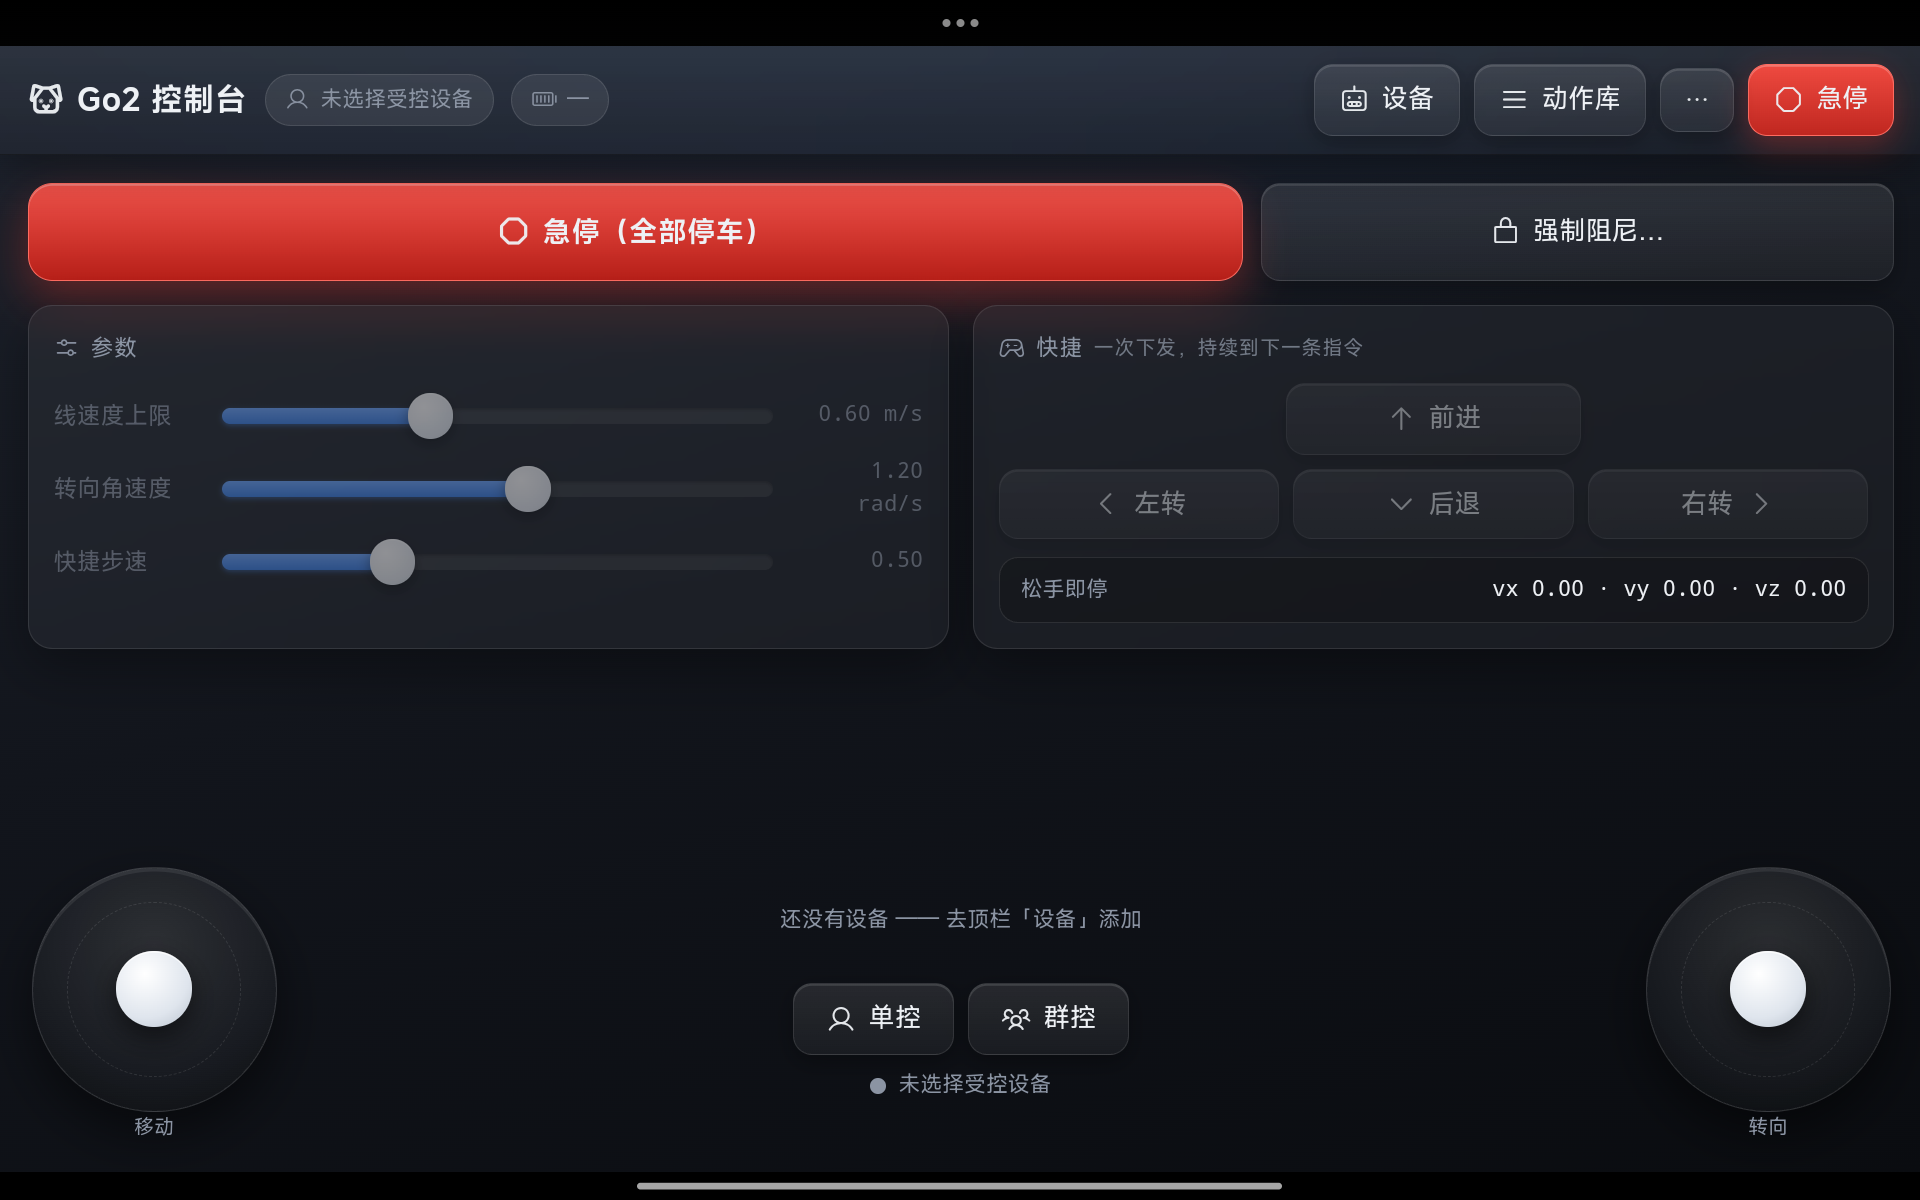
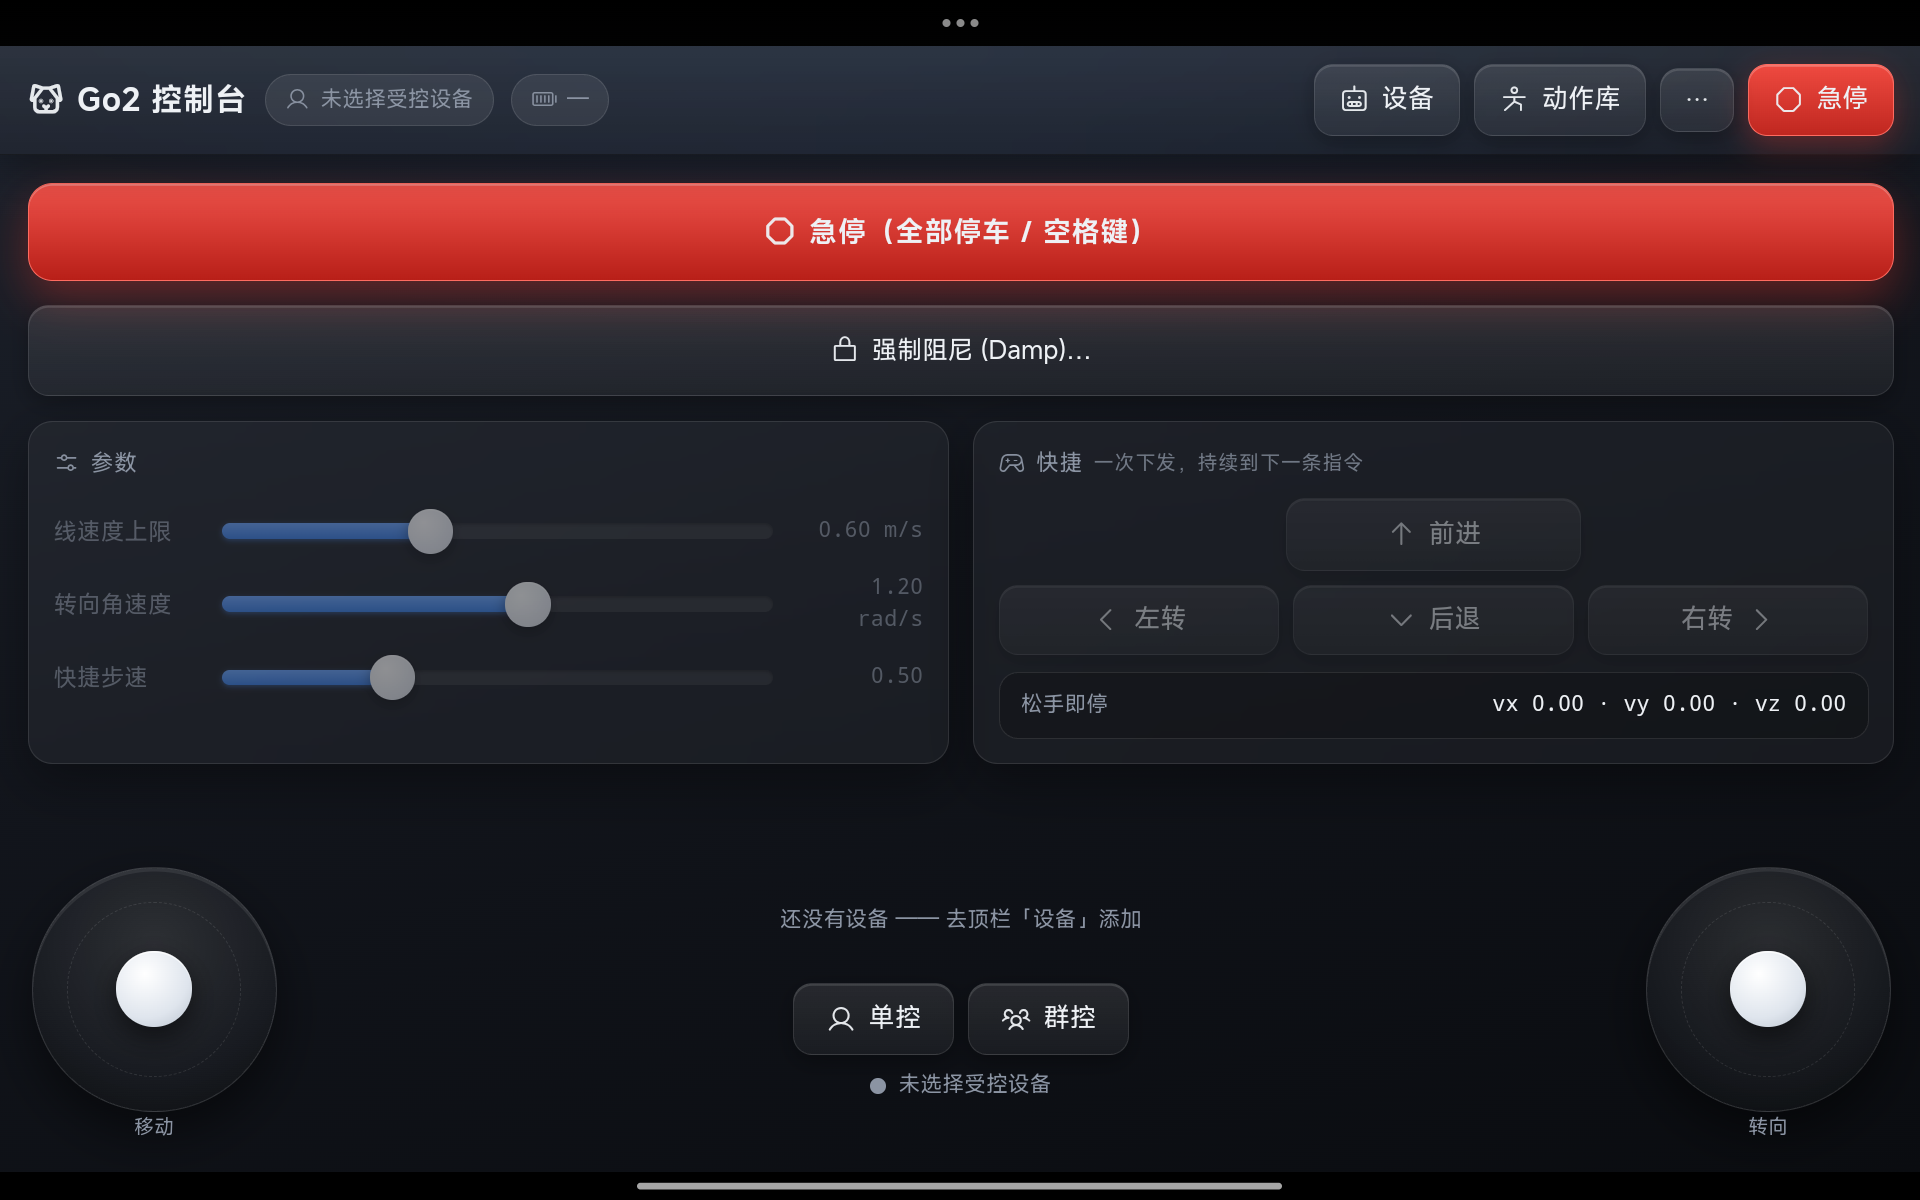
网页遥控页布局对齐 ImGui 端
一、急停恢复全宽一行（文案对齐：急停（全部停车 / 空格键）），强制阻尼恢复全宽一行（强制阻尼 (Damp)…），确认态文案对齐（确认：立即阻尼（狗会趴下）+ 取消）

二、参数滑条加「重置」按钮（对齐 ImGui paramRowF：偏离默认值才显示，点了回默认并下发）

三、顶栏页面切换图标对齐 ImGui（动作库目标页用 TaiChi 图标）

四、README 演示截图重拍（docs/img/web_remote.png）

🤖 Generated with [CodeBuddy](https://codebuddy.ai)

diff --git a/client/apps/android/app/src/main/assets/web/components/remote.js b/client/apps/android/app/src/main/assets/web/components/remote.js
@@ -29,15 +29,17 @@ export default {
   },
   template: `
   <section class="page">
-    <!-- 安全行：急停（大头）+ 强制阻尼（小头，两步确认）—— 同一行省高度，急停依然最显眼 -->
-    <div class="safe-row">
-      <button class="estop-big" :class="{armed: store.st.estop}" @click="estop()">
-        <span class="ic">{{ ICON.estop }}</span>急停（全部停车）
-      </button>
-      <button v-if="!store.dampArmed" class="damp" @click="store.dampArmed = true">
-        <span class="ic">{{ ICON.lock }}</span>强制阻尼…
-      </button>
-      <button v-else class="damp-go" @click="damp()">确认阻尼？</button>
+    <!-- 急停：永远全宽、永远可见（安全关键，断线也要能按）；阻尼单独一行（与 ImGui 端同构） -->
+    <button class="estop-big" :class="{armed: store.st.estop}" @click="estop()">
+      <span class="ic">{{ ICON.estop }}</span>急停（全部停车 / 空格键）
+    </button>
+
+    <div v-if="!store.dampArmed" class="damp" @click="store.dampArmed = true">
+      <span class="ic">{{ ICON.lock }}</span>强制阻尼 (Damp)…
+    </div>
+    <div v-else class="damp-confirm">
+      <button class="damp-go" @click="damp()">确认：立即阻尼（狗会趴下）</button>
+      <button class="ghost" @click="store.dampArmed = false">取消</button>
     </div>
 
     <div v-if="store.st.estop" class="estop-box">
@@ -54,13 +56,13 @@ export default {
       <div class="card pad">
         <p class="title"><span class="ic">{{ ICON.sliders }}</span>参数</p>
         <IosSlider label="线速度上限" :value="param('maxLinSpeed')" :min="0.05" :max="1.5"
-                   :step="0.01" unit=" m/s" :disabled="!canMove"
+                   :step="0.01" unit=" m/s" :def="0.60" :disabled="!canMove"
                    @update="v => onSlide('maxLinSpeed', v)" @commit="v => onCommit('maxLinSpeed', v)" />
         <IosSlider label="转向角速度" :value="param('yawRate')" :min="0.2" :max="2.0"
-                   :step="0.01" unit=" rad/s" :disabled="!canMove"
+                   :step="0.01" unit=" rad/s" :def="1.20" :disabled="!canMove"
                    @update="v => onSlide('yawRate', v)" @commit="v => onCommit('yawRate', v)" />
         <IosSlider label="快捷步速" :value="param('speedScale')" :min="0.05" :max="1.5"
-                   :step="0.01" unit="" :disabled="!canMove"
+                   :step="0.01" unit="" :def="0.50" :disabled="!canMove"
                    @update="v => onSlide('speedScale', v)" @commit="v => onCommit('speedScale', v)" />
       </div>
 

diff --git a/client/assets/web/components/remote.js b/client/assets/web/components/remote.js
@@ -29,15 +29,17 @@ export default {
   },
   template: `
   <section class="page">
-    <!-- 安全行：急停（大头）+ 强制阻尼（小头，两步确认）—— 同一行省高度，急停依然最显眼 -->
-    <div class="safe-row">
-      <button class="estop-big" :class="{armed: store.st.estop}" @click="estop()">
-        <span class="ic">{{ ICON.estop }}</span>急停（全部停车）
-      </button>
-      <button v-if="!store.dampArmed" class="damp" @click="store.dampArmed = true">
-        <span class="ic">{{ ICON.lock }}</span>强制阻尼…
-      </button>
-      <button v-else class="damp-go" @click="damp()">确认阻尼？</button>
+    <!-- 急停：永远全宽、永远可见（安全关键，断线也要能按）；阻尼单独一行（与 ImGui 端同构） -->
+    <button class="estop-big" :class="{armed: store.st.estop}" @click="estop()">
+      <span class="ic">{{ ICON.estop }}</span>急停（全部停车 / 空格键）
+    </button>
+
+    <div v-if="!store.dampArmed" class="damp" @click="store.dampArmed = true">
+      <span class="ic">{{ ICON.lock }}</span>强制阻尼 (Damp)…
+    </div>
+    <div v-else class="damp-confirm">
+      <button class="damp-go" @click="damp()">确认：立即阻尼（狗会趴下）</button>
+      <button class="ghost" @click="store.dampArmed = false">取消</button>
     </div>
 
     <div v-if="store.st.estop" class="estop-box">
@@ -54,13 +56,13 @@ export default {
       <div class="card pad">
         <p class="title"><span class="ic">{{ ICON.sliders }}</span>参数</p>
         <IosSlider label="线速度上限" :value="param('maxLinSpeed')" :min="0.05" :max="1.5"
-                   :step="0.01" unit=" m/s" :disabled="!canMove"
+                   :step="0.01" unit=" m/s" :def="0.60" :disabled="!canMove"
                    @update="v => onSlide('maxLinSpeed', v)" @commit="v => onCommit('maxLinSpeed', v)" />
         <IosSlider label="转向角速度" :value="param('yawRate')" :min="0.2" :max="2.0"
-                   :step="0.01" unit=" rad/s" :disabled="!canMove"
+                   :step="0.01" unit=" rad/s" :def="1.20" :disabled="!canMove"
                    @update="v => onSlide('yawRate', v)" @commit="v => onCommit('yawRate', v)" />
         <IosSlider label="快捷步速" :value="param('speedScale')" :min="0.05" :max="1.5"
-                   :step="0.01" unit="" :disabled="!canMove"
+                   :step="0.01" unit="" :def="0.50" :disabled="!canMove"
                    @update="v => onSlide('speedScale', v)" @commit="v => onCommit('speedScale', v)" />
       </div>
 

diff --git a/client/apps/android/app/src/main/assets/web/style.css b/client/apps/android/app/src/main/assets/web/style.css
@@ -130,10 +130,6 @@ button.icon-btn { padding: 9px 12px; position: relative; }
 .empty { color: var(--dim); font-size: 13px; padding: 10px 2px; }
 
 /* ---------------- 遥控页 ---------------- */
-/* 安全行：急停占大头，强制阻尼占小头（同一行省高度，急停依然最显眼） */
-.safe-row { display: flex; gap: 10px; align-items: stretch; }
-.safe-row .estop-big { flex: 2; }
-.safe-row .damp, .safe-row .damp-go { flex: 1; }
 .estop-big {
   width: 100%; height: 56px; font-size: 16px; font-weight: 650; letter-spacing: .5px;
   border-radius: 14px;
@@ -154,10 +150,19 @@ button.icon-btn { padding: 9px 12px; position: relative; }
 .estop-title { font-weight: 650; color: #ff9a92; margin-bottom: 6px; }
 .estop-tip { font-size: 12.5px; color: var(--dim); margin-bottom: 10px; }
 .unestop { width: 100%; height: 46px; }
-.damp { width: 100%; }
+/* 强制阻尼：全宽一行（div 伪装成按钮，样式与 button 一致） */
+.damp {
+  display: flex; align-items: center; justify-content: center; gap: 7px;
+  width: 100%; height: 52px; font-size: 14.5px; cursor: pointer; color: var(--text);
+  border-radius: 12px; border: 1px solid var(--line);
+  background: linear-gradient(180deg, rgba(255, 255, 255, .10), rgba(255, 255, 255, .05));
+  box-shadow: 0 1px 0 rgba(255, 255, 255, .12) inset, 0 4px 12px rgba(0, 0, 0, .28);
+  transition: transform .12s, background .12s;
+}
+.damp:hover { background: linear-gradient(180deg, rgba(255, 255, 255, .15), rgba(255, 255, 255, .07)); transform: translateY(-1px); }
 .damp-confirm { display: flex; gap: 8px; }
 .damp-go {
-  flex: 1; background: linear-gradient(180deg, #ff8a3d, #d1560c);
+  flex: 1; height: 52px; background: linear-gradient(180deg, #ff8a3d, #d1560c);
   border-color: #ffab6b; box-shadow: 0 1px 0 rgba(255, 255, 255, .25) inset, 0 6px 18px rgba(255, 138, 61, .3);
 }
 
@@ -186,6 +191,7 @@ button.icon-btn { padding: 9px 12px; position: relative; }
 }
 .slider-knob.grab { transform: scale(1.08); }
 .slider-value { width: 74px; flex: 0 0 auto; text-align: right; font-family: ui-monospace, Menlo, Consolas, monospace; font-size: 12.5px; color: var(--dim); }
+.slider-reset { flex: 0 0 auto; padding: 3px 8px; font-size: 11.5px; border-radius: 8px; }
 
 /* D-pad */
 .dpad { display: flex; flex-direction: column; gap: 8px; }

diff --git a/client/assets/web/style.css b/client/assets/web/style.css
@@ -130,10 +130,6 @@ button.icon-btn { padding: 9px 12px; position: relative; }
 .empty { color: var(--dim); font-size: 13px; padding: 10px 2px; }
 
 /* ---------------- 遥控页 ---------------- */
-/* 安全行：急停占大头，强制阻尼占小头（同一行省高度，急停依然最显眼） */
-.safe-row { display: flex; gap: 10px; align-items: stretch; }
-.safe-row .estop-big { flex: 2; }
-.safe-row .damp, .safe-row .damp-go { flex: 1; }
 .estop-big {
   width: 100%; height: 56px; font-size: 16px; font-weight: 650; letter-spacing: .5px;
   border-radius: 14px;
@@ -154,10 +150,19 @@ button.icon-btn { padding: 9px 12px; position: relative; }
 .estop-title { font-weight: 650; color: #ff9a92; margin-bottom: 6px; }
 .estop-tip { font-size: 12.5px; color: var(--dim); margin-bottom: 10px; }
 .unestop { width: 100%; height: 46px; }
-.damp { width: 100%; }
+/* 强制阻尼：全宽一行（div 伪装成按钮，样式与 button 一致） */
+.damp {
+  display: flex; align-items: center; justify-content: center; gap: 7px;
+  width: 100%; height: 52px; font-size: 14.5px; cursor: pointer; color: var(--text);
+  border-radius: 12px; border: 1px solid var(--line);
+  background: linear-gradient(180deg, rgba(255, 255, 255, .10), rgba(255, 255, 255, .05));
+  box-shadow: 0 1px 0 rgba(255, 255, 255, .12) inset, 0 4px 12px rgba(0, 0, 0, .28);
+  transition: transform .12s, background .12s;
+}
+.damp:hover { background: linear-gradient(180deg, rgba(255, 255, 255, .15), rgba(255, 255, 255, .07)); transform: translateY(-1px); }
 .damp-confirm { display: flex; gap: 8px; }
 .damp-go {
-  flex: 1; background: linear-gradient(180deg, #ff8a3d, #d1560c);
+  flex: 1; height: 52px; background: linear-gradient(180deg, #ff8a3d, #d1560c);
   border-color: #ffab6b; box-shadow: 0 1px 0 rgba(255, 255, 255, .25) inset, 0 6px 18px rgba(255, 138, 61, .3);
 }
 
@@ -186,6 +191,7 @@ button.icon-btn { padding: 9px 12px; position: relative; }
 }
 .slider-knob.grab { transform: scale(1.08); }
 .slider-value { width: 74px; flex: 0 0 auto; text-align: right; font-family: ui-monospace, Menlo, Consolas, monospace; font-size: 12.5px; color: var(--dim); }
+.slider-reset { flex: 0 0 auto; padding: 3px 8px; font-size: 11.5px; border-radius: 8px; }
 
 /* D-pad */
 .dpad { display: flex; flex-direction: column; gap: 8px; }

diff --git a/client/apps/android/app/src/main/assets/web/components/slider.js b/client/apps/android/app/src/main/assets/web/components/slider.js
@@ -12,6 +12,7 @@ export default {
     step: { type: Number, default: 0.01 },
     unit: { type: String, default: '' },
     digits: { type: Number, default: 2 },
+    def: { type: Number, default: null },  // 默认值：给了就显示「重置」（对齐 ImGui paramRowF）
     disabled: Boolean,
   },
   emits: ['update', 'commit'],
@@ -24,6 +25,8 @@ export default {
       return Math.max(0, Math.min(1, t)) * 100
     })
     const text = computed(() => Number(props.value).toFixed(props.digits) + props.unit)
+    const showReset = computed(() =>
+      props.def !== null && Math.abs(props.value - props.def) > 1e-9)
 
     function valueAt(clientX) {
       const r = el.value.getBoundingClientRect()
@@ -51,7 +54,12 @@ export default {
       emit('commit', props.value)
     }
 
-    return { el, dragging, pct, text, down, move, up }
+    function reset() {
+      emit('update', props.def)
+      emit('commit', props.def)
+    }
+
+    return { el, dragging, pct, text, showReset, reset, down, move, up }
   },
   template: `
   <div class="slider-row" :class="{off:disabled}">
@@ -62,6 +70,7 @@ export default {
       <div class="slider-knob" :class="{grab:dragging}" :style="{left: pct + '%'}"></div>
     </div>
     <div class="slider-value">{{ text }}</div>
+    <button v-if="showReset" class="ghost sm slider-reset" @pointerdown.stop @click="reset()">重置</button>
   </div>
   `,
 }

diff --git a/client/assets/web/components/slider.js b/client/assets/web/components/slider.js
@@ -12,6 +12,7 @@ export default {
     step: { type: Number, default: 0.01 },
     unit: { type: String, default: '' },
     digits: { type: Number, default: 2 },
+    def: { type: Number, default: null },  // 默认值：给了就显示「重置」（对齐 ImGui paramRowF）
     disabled: Boolean,
   },
   emits: ['update', 'commit'],
@@ -24,6 +25,8 @@ export default {
       return Math.max(0, Math.min(1, t)) * 100
     })
     const text = computed(() => Number(props.value).toFixed(props.digits) + props.unit)
+    const showReset = computed(() =>
+      props.def !== null && Math.abs(props.value - props.def) > 1e-9)
 
     function valueAt(clientX) {
       const r = el.value.getBoundingClientRect()
@@ -51,7 +54,12 @@ export default {
       emit('commit', props.value)
     }
 
-    return { el, dragging, pct, text, down, move, up }
+    function reset() {
+      emit('update', props.def)
+      emit('commit', props.def)
+    }
+
+    return { el, dragging, pct, text, showReset, reset, down, move, up }
   },
   template: `
   <div class="slider-row" :class="{off:disabled}">
@@ -62,6 +70,7 @@ export default {
       <div class="slider-knob" :class="{grab:dragging}" :style="{left: pct + '%'}"></div>
     </div>
     <div class="slider-value">{{ text }}</div>
+    <button v-if="showReset" class="ghost sm slider-reset" @pointerdown.stop @click="reset()">重置</button>
   </div>
   `,
 }

diff --git a/client/apps/android/app/src/main/assets/web/components/topbar.js b/client/apps/android/app/src/main/assets/web/components/topbar.js
@@ -41,7 +41,7 @@ export default {
         <span class="ic">{{ ICON.robot }}</span>设备
       </button>
       <button @click="togglePage()">
-        <span class="ic">{{ isRemote ? ICON.list : ICON.joystick }}</span>{{ isRemote ? '动作库' : '遥控' }}
+        <span class="ic">{{ isRemote ? ICON.taiChi : ICON.joystick }}</span>{{ isRemote ? '动作库' : '遥控' }}
       </button>
       <button class="icon-btn" @click="store.menu = !store.menu">
         <span class="ic">{{ ICON.dots }}</span>

diff --git a/client/assets/web/components/topbar.js b/client/assets/web/components/topbar.js
@@ -41,7 +41,7 @@ export default {
         <span class="ic">{{ ICON.robot }}</span>设备
       </button>
       <button @click="togglePage()">
-        <span class="ic">{{ isRemote ? ICON.list : ICON.joystick }}</span>{{ isRemote ? '动作库' : '遥控' }}
+        <span class="ic">{{ isRemote ? ICON.taiChi : ICON.joystick }}</span>{{ isRemote ? '动作库' : '遥控' }}
       </button>
       <button class="icon-btn" @click="store.menu = !store.menu">
         <span class="ic">{{ ICON.dots }}</span>
